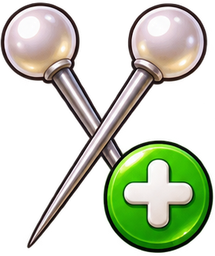
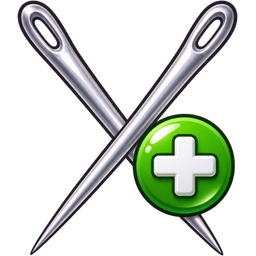
Büyük küre ve düz iğneler
- Küre telefonda yaklaşık %40 büyüdü; iğneler ekrana sığsın diye biraz kısaldı, küre bilgi alanına girmeyecek şekilde konumlanır
- GPT ile düz dikiş iğneleri (gümüş ve eski bronz); +2 İğne joker simgesi de düz iğnelerle yeniden çizildi
- Çarpışma aralığı ince iğnelerin görünen kalınlığına yaklaştırıldı (GAP 0,085); iğne yoğunluğu aynı oranda dengelendi
- Test botu kayan plakaların yolunu ve bomba çıkıntısını hesaba katar; 110 bölümün hepsi 3 yıldızla geçiliyor
- Önbellek sürümü igne-v12, kod sürümü ?v=12

diff --git a/js/play.js b/js/play.js
@@ -17,11 +17,15 @@ function layout() {
   const cs = getComputedStyle(document.getElementById('safe'));
   SAFE = { top: parseFloat(cs.paddingTop) || 0, bottom: parseFloat(cs.paddingBottom) || 0, left: parseFloat(cs.paddingLeft) || 0, right: parseFloat(cs.paddingRight) || 0 };
   const s = Math.min(W, H * 0.62);
-  cx = W / 2; cy = H * 0.37 + SAFE.top * 0.5;
-  R = s * (W < 500 ? 0.17 : 0.16); L = R * 1.25; HEAD = Math.max(5, R * 0.13);
-  LAUNCH_Y = Math.min(H * 0.79, H - SAFE.bottom - L - 40);
+  // büyük küre, düz ve biraz kısa iğneler: küre + iğneler ekrana sığar
+  R = s * (W < 500 ? 0.235 : 0.21); L = R * 0.95; HEAD = Math.max(4, R * 0.05);
+  cx = W / 2;
+  LAUNCH_Y = Math.min(H * 0.8, H - SAFE.bottom - L - 40);
+  // üstteki bilgi alanına (≈120 px) girmesin, alttaki atış noktasına da yaklaşmasın
+  cy = Math.max(H * 0.37 + SAFE.top * 0.5, SAFE.top + 118 + R + L);
+  cy = Math.min(cy, LAUNCH_Y - (R + L) - 24);
 }
-GAP = 2 * Math.asin(0.13 / 2.25) + 0.012; // açısal boşluk ekrandan bağımsız: seviyeler her cihazda aynı
+GAP = 0.085; // iki iğne arası en az açı (düz iğnelerin görünen kalınlığına yakın); ekrandan bağımsız, seviyeler her cihazda aynı
 
 function startLevel(node) {
   curNode = node; lv = makeLevel(node);
@@ -331,7 +335,8 @@ function simLevel(id, maxTime = 120) {
   startLevel(node);
   if (state === 'bossintro') { state = 'play'; stateT = 0; }
   const dt = 1 / 120, travel = (LAUNCH_Y - (cy + R)) / Math.max(H * 3.2, 1800);
-  const safeAt = (a) => !lv.zones.some(z => inArc(a, { start: z.start - GAP * 0.6, width: z.width + GAP * 1.2 })) && stuck.every(s => angDiff(s.a, a) > GAP * 1.3);
+  const zm = (z) => Math.max(GAP * 0.6, 0.09) + (z.vel ? Math.abs(z.vel) * (travel + 0.05) + 0.02 : 0); // kayan plakanın uçuş süresindeki yolu da pay
+  const safeAt = (a) => !lv.zones.some(z => inArc(a, { start: z.start - zm(z), width: z.width + zm(z) * 2 })) && stuck.every(s => angDiff(s.a, a) > GAP * 1.3);
   let time = 0, minFree = 1;
   while (time < maxTime && state === 'play') {
     if (flying.length === 0 && pinsLeft > 0) {

diff --git a/index.html b/index.html
@@ -23,13 +23,13 @@
 <body>
 <canvas id="c"></canvas>
 <div id="safe" style="position:fixed;visibility:hidden;pointer-events:none;padding:env(safe-area-inset-top) env(safe-area-inset-right) env(safe-area-inset-bottom) env(safe-area-inset-left)"></div>
-<script src="js/core.js?v=11"></script>
-<script src="js/i18n.js?v=11"></script>
-<script src="js/net.js?v=11"></script>
-<script src="js/play.js?v=11"></script>
-<script src="js/render.js?v=11"></script>
-<script src="js/screens.js?v=11"></script>
-<script src="js/auth.js?v=11"></script>
-<script src="js/main.js?v=11"></script>
+<script src="js/core.js?v=12"></script>
+<script src="js/i18n.js?v=12"></script>
+<script src="js/net.js?v=12"></script>
+<script src="js/play.js?v=12"></script>
+<script src="js/render.js?v=12"></script>
+<script src="js/screens.js?v=12"></script>
+<script src="js/auth.js?v=12"></script>
+<script src="js/main.js?v=12"></script>
 </body>
 </html>

diff --git a/js/render.js b/js/render.js
@@ -77,7 +77,7 @@ function drawPin(tx, ty, dir, len, kind = 'pin', hit = false) {
   const hx = tx + Math.cos(dir) * len, hy = ty + Math.sin(dir) * len;
   const im = IMG[kind] || IMG.pin;
   if (!im) { drawPinVec(tx, ty, hx, hy, hit ? '#ff4d6d' : kind === 'pin_old' ? 'rgba(255,255,255,0.55)' : theme().pin, hit); return; }
-  const h = len + HEAD, w = h * (im.width / im.height) * 0.85;
+  const h = len + HEAD, w = Math.max(h * (im.width / im.height), R * 0.11); // düz iğne: görünen kalınlık çarpışma aralığına yakın
   ctx.save(); ctx.translate(tx, ty); ctx.rotate(dir + Math.PI / 2); ctx.drawImage(im, -w / 2, -h, w, h); ctx.restore();
   if (hit) glowAt(hx, hy, HEAD * 5, 'rgba(255,60,80,0.9)');
 }

diff --git a/sw.js b/sw.js
@@ -1,6 +1,6 @@
 // Çevrimdışı oynama: oyun dosyaları ilk açılışta önbelleğe alınır.
 // Oyun güncellenince VERSION'u ve index.html içindeki ?v= sayısını artırın; eski önbellek silinir.
-const VERSION = 'igne-v11';
+const VERSION = 'igne-v12';
 const SPRITES = ['pin', 'pin_old', 'bomb', 'shield', 'star', 'sound', 'fx_boom', 'fx_ring', 'fx_spark', 'fx_gold', 'fx_metal', 'fx_glow',
   'orb1', 'orb2', 'orb3', 'orb4', 'orb5', 'orb6', 'boss1', 'boss2', 'boss3',
   'ui_pause', 'ui_play', 'ui_restart', 'ui_music', 'ui_vibe', 'ui_shake', 'ui_settings', 'ui_hand', 'ui_trophy', 'ui_home', 'logo',

diff --git a/js/core.js b/js/core.js
@@ -288,7 +288,8 @@ function makeLevel(node) {
     }
   }
   // kapasite: 3 yıldız için gereken iğne + hazır iğneler küreye rahat sığmalı
-  const density = Math.max(2.35, 3.4 - n * 0.02);
+  // iğne başına ayrılan açı = GAP × density; GAP daralınca density aynı oranda artar (zorluk değişmez)
+  const density = Math.max(2.35, 3.4 - n * 0.02) * (0.1276 / GAP);
   let pre = n === 1 ? 0 : Math.min(Math.floor((n + 1) / 4), 5);
   const need = () => lv.thresholds[2] + pre + 1;
   const cap = () => Math.floor((TAU - lv.zones.reduce((s, z) => s + z.width + GAP, 0)) / (GAP * density));

diff --git a/art/KAYNAK.md b/art/KAYNAK.md
@@ -14,6 +14,8 @@ Oyundaki tüm görseller OpenAI GPT görsel üretimiyle, Codex CLI üzerinden ü
 | `art/map_items.png` | 3×3: mavi, altın, kilitli, boss, bonus, süreli balon; mihenk taşı kemeri, hazine sandığı, altın para (yeşil perdede üretildi) | `assets/bal_*.png`, `milestone.png`, `chest.png`, `coin.png` |
 | `art/skills.png` | 3×3: Yavaşlat, +2 İğne, +15 Saniye jokerleri; küçük/orta/büyük altın paketi; market, harita, kilit simgeleri | `assets/sk_*.png`, `pack_*.png`, `shop.png`, `map.png`, `lock.png` |
 | `art/mapbg/map1..3.png` | 1024×1536 harita arka planları: gündüz tepeler, günbatımı dağlar, auroralı gece | `assets/map1..3.webp` (kısımlarda sırayla) |
+| `art/needles.png` | 2×1, yeşil perde: düz gümüş dikiş iğnesi ve eski bronz iğne (topuzsuz) | `assets/pin.png`, `assets/pin_old.png` (parts.png içindeki topuzlu iğnelerin yerine) |
+| `art/sk_pins2.png` | +2 İğne joker simgesi, düz iğnelerle; yeşil zemin yalnızca kenardan silindi (yeşil artı rozeti korunur) | `assets/sk_pins2.png` |
 | `art/logo.png` | Orbitapp logosu: "O" harfi iğne saplı parlak küre, yörünge çizgisi; yeşil perdede üretildi | `assets/logo.png` (900 px), giriş ekranı ve hoş geldin penceresi |
 | `art/bg/bg1..6.png` | 1024×1536 dikey arka planlar, kürelerle aynı renk temaları | `assets/bg1..6.webp` (768×1152) |
 
